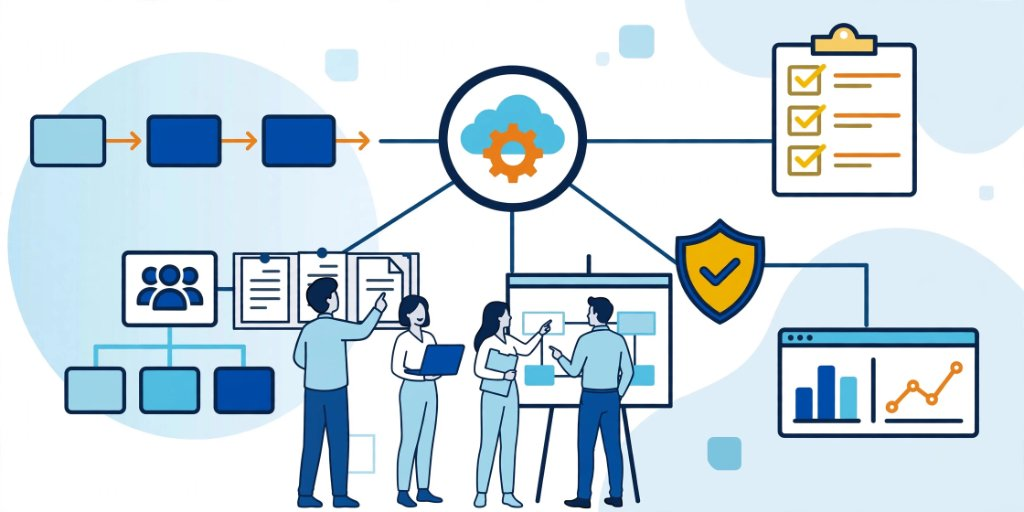
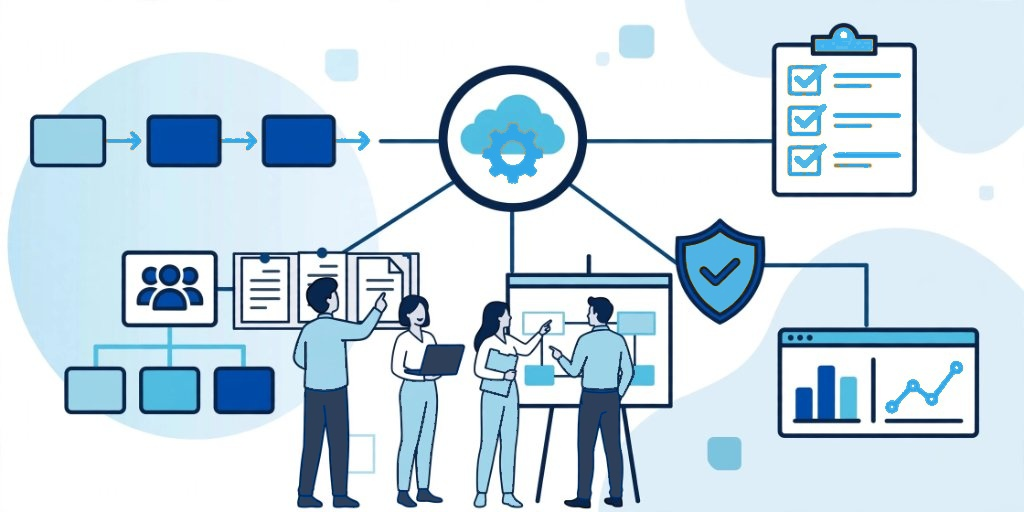
Synchronize advisory process illustration color palette with inventory and methodology sections (sky blue, navy, slate gray)

diff --git a/test.html b/test.html
@@ -1,4 +1,4 @@
-<!DOCTYPE html>
+<!DOCTYPE html>
 <html lang="en">
 <head>
     <meta charset="UTF-8">
@@ -3024,7 +3024,7 @@
 
                 <!-- Operating Model & Internal Control Process Illustration -->
                 <div class="advisory-illustration-container">
-                    <img src="assets/advisory-model-illustration.jpg" alt="Operating Model Design and Strengthening Internal Control Framework" class="advisory-illustration-img" loading="lazy">
+                    <img src="assets/advisory-model-illustration.jpg?v=2" alt="Operating Model Design and Strengthening Internal Control Framework" class="advisory-illustration-img" loading="lazy">
                 </div>
 
                 <div class="advisory-collab-btn-wrap">
